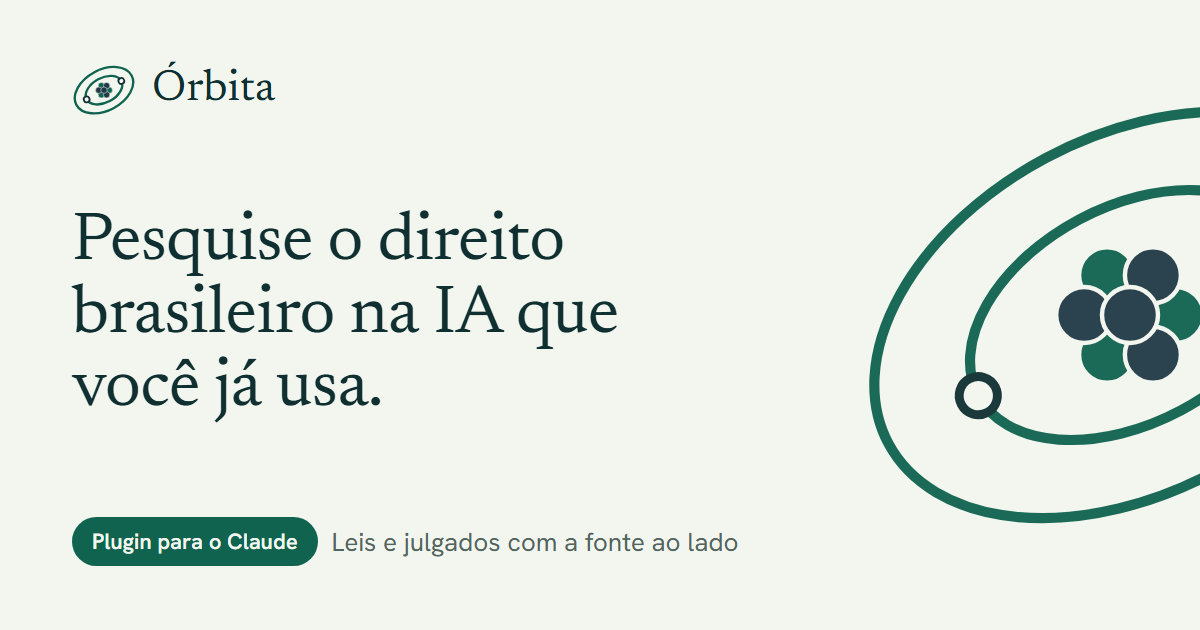
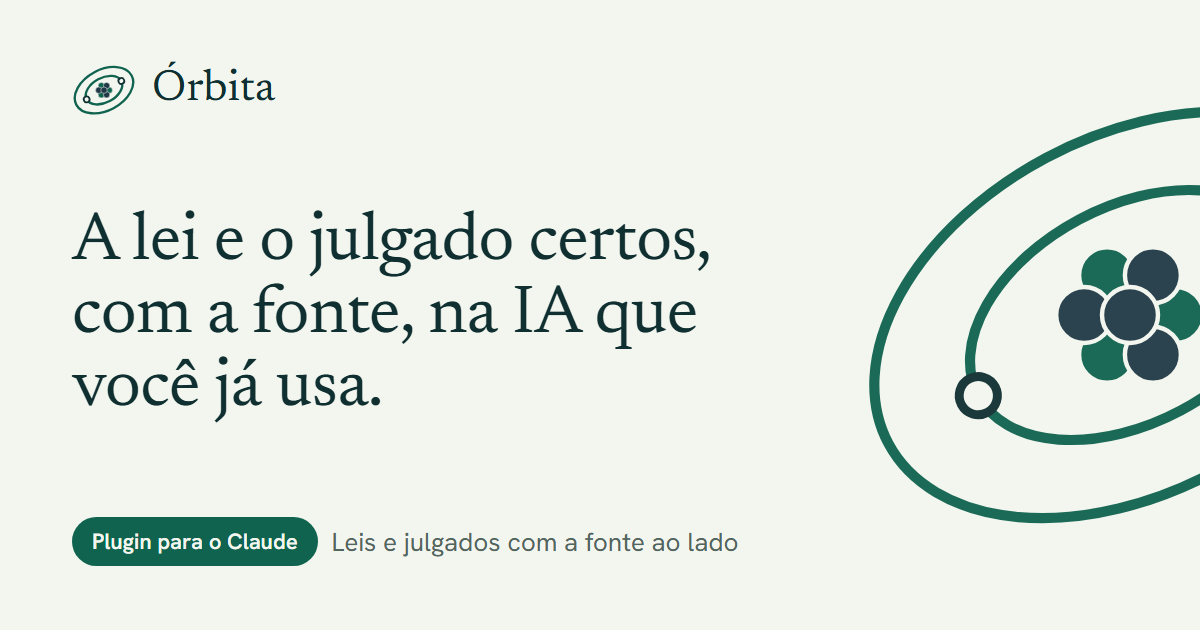
Landing: textos e botões de venda (etapa 10f-1)
Topo com o título "A lei e o julgado certos, com a fonte, na IA que
você já usa.", botões "Assinar a partir de R$ 50/mês" e "Ver com e
sem a Órbita" e linha de pagamento. Cabeçalho com "Assinar", selo
"Mais completo" no Max, objeções de compra primeiro nas perguntas e
chamada final "Comece hoje." com os dois planos. Imagem de
compartilhamento refeita com o título novo. Guia atualizado.

Changed region(s): [[0.0617, 0.3317, 0.6167, 0.5429]]

diff --git a/docs/guia-de-uso.html b/docs/guia-de-uso.html
@@ -115,7 +115,7 @@ td:first-child{font-weight:700;white-space:nowrap}
 
 <div class="shell">
   <nav class="toc" aria-label="Seções">
-    <div class="brand">Órbita<small>Guia de uso · etapa 10e · 25/11/2026</small></div>
+    <div class="brand">Órbita<small>Guia de uso · etapa 10f-1 · 25/11/2026</small></div>
     <a href="#rodar">Como rodar</a>
     <a href="#jornada">Jornada do assinante</a>
     <a href="#codigo">Login com código</a>
@@ -152,6 +152,16 @@ td:first-child{font-weight:700;white-space:nowrap}
       <p>Etapa 10c pronta: o topo da página ficou parado. Sem entrada animada, sem profundidade com o mouse, sem o átomo girando e sem os cartões de lei em revezamento. O conteúdo é o mesmo, e o resto das animações do site continua como estava.</p>
       <p>Etapa 10d pronta: a seção "Do monte de papel à peça revisada" (quatro momentos com a foto que trocava ao rolar) virou uma linha: "Menos tempo caçando lei e julgado em várias bases. Mais tempo revisando e assinando a peça." As quatro fotos que só ela usava saíram também dos créditos.</p>
       <p>Etapa 10e pronta: a seção de exemplos virou "A mesma pergunta. Com e sem a Órbita.". São cinco perguntas tributárias, cada uma com as duas respostas reais do Claude Opus 5.5 lado a lado, sem cortes. Elas vêm do painel de comparação de 16/11/2026, com quantas fontes cada resposta citou, de onde veio a resposta sem plugin, se as duas convergem e o que a Órbita acrescentou. A primeira aba é a que diverge (crime tributário). Abaixo fica o botão "Assinar a partir de R$ 50/mês".</p>
+      <p>Etapa 10f-1 pronta (textos e botões de venda). Mudou:</p>
+      <ul>
+        <li><strong>Topo:</strong> título "A lei e o julgado certos, com a fonte, na IA que você já usa."; botões "Assinar a partir de R$ 50/mês" e "Ver com e sem a Órbita"; e a linha "Cartão, Pix ou boleto · cancele quando quiser · funciona no Claude".</li>
+        <li><strong>Cabeçalho:</strong> o botão virou "Assinar".</li>
+        <li><strong>Planos:</strong> o Max ganhou o selo "Mais completo".</li>
+        <li><strong>Perguntas:</strong> as objeções de compra vêm primeiro (e se a IA errar, cancelamento, Pro ou Max).</li>
+        <li><strong>Fim da página:</strong> chamada final "Comece hoje." com os dois planos.</li>
+        <li><strong>Imagem de compartilhamento:</strong> refeita com o título novo.</li>
+      </ul>
+      <p>Faltam a 10f-2 (o átomo do topo vira um trecho real de resposta), a 10f-3 (a cena da biblioteca vira uma lista do que a base consulta) e a 10f-4 (sai a cena de Brasília e o formulário vai para a Ajuda).</p>
       <p>Ajuste: o cabeçalho fica sempre fixo no topo. Ele não se esconde mais ao rolar para baixo, então o botão "Ver planos" continua sempre à vista.</p>
       <h3>Plugin e servidor MCP</h3>
       <p>O cliente instala só o plugin, e o que se vende é a assinatura. O servidor MCP com a base jurídica já existe e será ligado depois; o site não depende dele. Até lá, "Baixar o plugin", "Gerar código de conexão" e os números do Status do plugin funcionam em demonstração, marcados "a definir". A lista de cada lugar está em <code>docs/planejamento.md</code>, seção "Servidor MCP".</p>
@@ -414,6 +424,9 @@ const testes=[
  ['Site','Comparativo: cinco perguntas, com e sem a Órbita lado a lado e o texto original'],
  ['Site','Comparativo: abas por clique e pelas setas, e "Ler a resposta inteira" abre e fecha'],
  ['Site','Comparativo no celular: uma resposta embaixo da outra, sem rolagem lateral'],
+ ['Site','Topo com título de venda, botão "Assinar a partir de R$ 50/mês" e linha de pagamento'],
+ ['Site','Sete botões de assinar na página: topo, cabeçalho, comparativo, planos e chamada final'],
+ ['Site','Perguntas de compra primeiro e chamada final "Comece hoje." com os dois planos'],
  ['Site','Build do site passa'],
  ['Site','11 páginas respondem; endereço inexistente dá 404'],
  ['Navegador','Criar conta com código e seguir para o checkout'],

diff --git a/scripts/og/og.html b/scripts/og/og.html
@@ -61,7 +61,7 @@
       Órbita
     </div>
 
-    <h1>Pesquise o direito brasileiro na IA que você já usa.</h1>
+    <h1>A lei e o julgado certos, com a fonte, na IA que você já usa.</h1>
 
     <div class="foot">
       <span class="pill">Plugin para o Claude</span>
